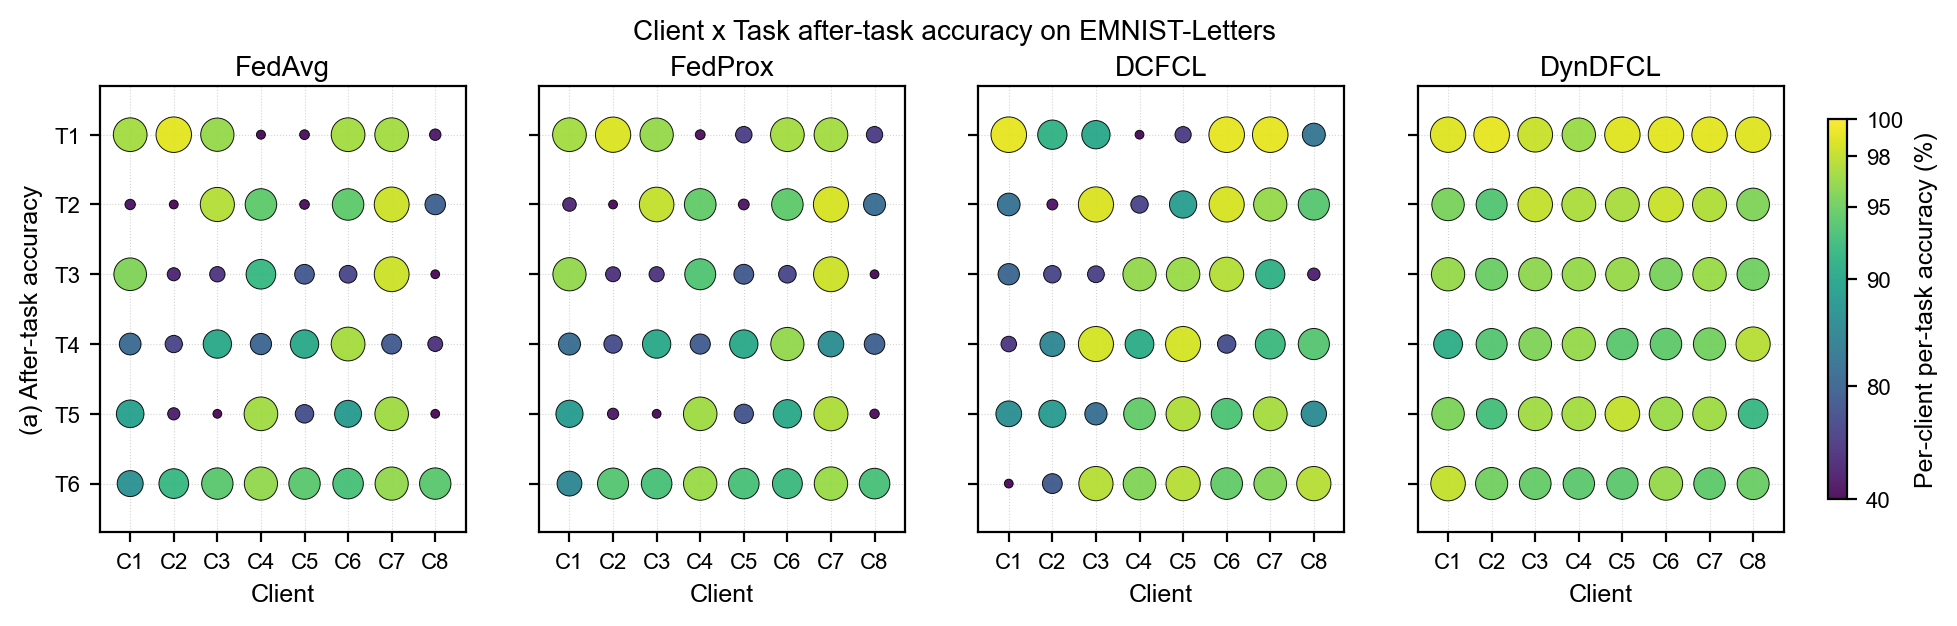
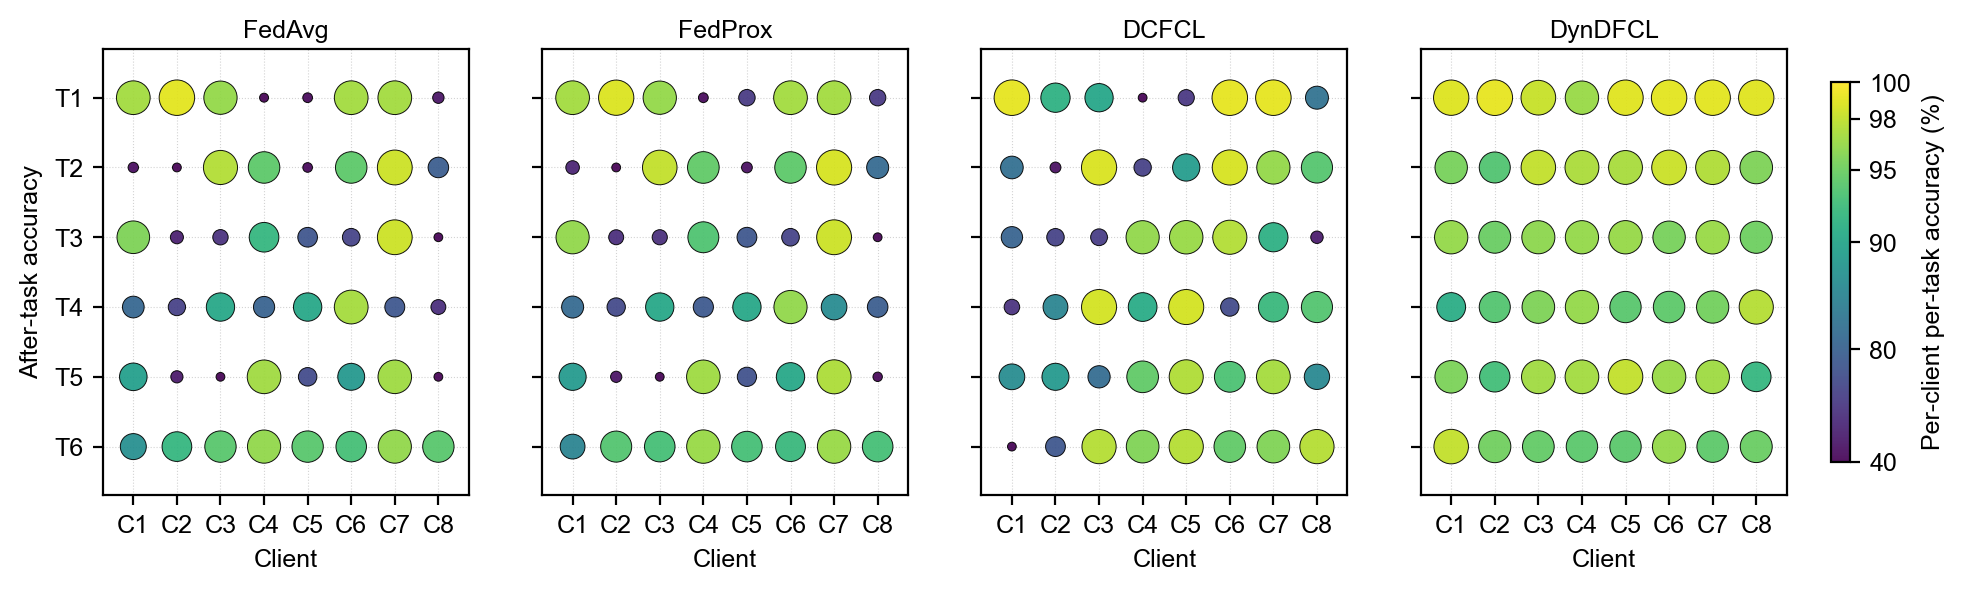
Fig 7 cleanup: drop (a) prefix and suptitle; unify fonts to 9pt
generate_extra_figures.py
- Drop "(a) " / "(b) " prefix from the After-task / End-of-stream
  panel labels (the (b) row was already removed earlier; the
  prefix was leftover)
- Remove fig.suptitle("Client x Task after-task accuracy on
  EMNIST-Letters"); the LaTeX caption already carries the
  equivalent description
- Unify in-figure font sizes for the bubble matrix to 9pt
  (FONT_TITLE 10 -> 9, FONT_TICK 8 -> 9, FONT_LEGEND 8 -> 9;
  FONT_BASE / FONT_AXIS_LABEL were already 9). The radar
  figure (plot_radar) uses its own local font overrides and is
  unaffected.

Regenerated artifacts
- paper/figures/client_task_bubble.{pdf,png}
- paper/figures/radar_metrics.pdf (incidental, identical layout)

diff --git a/paper/generate_extra_figures.py b/paper/generate_extra_figures.py
@@ -48,11 +48,14 @@ FIG_DIR.mkdir(parents=True, exist_ok=True)
 DATA_DIR.mkdir(parents=True, exist_ok=True)
 
 # Unified font sizes (kept in sync with plot_figures.py)
+# All-9pt across the bubble-matrix figure per user request (Fig 7 font
+# consistency); the radar figure uses its own local font overrides in
+# plot_radar() and is unaffected.
 FONT_BASE       = 9.0
-FONT_TITLE      = 10.0
+FONT_TITLE      = 9.0
 FONT_AXIS_LABEL = 9.0
-FONT_TICK       = 8.0
-FONT_LEGEND     = 8.0
+FONT_TICK       = 9.0
+FONT_LEGEND     = 9.0
 
 plt.rcParams.update({
     "font.family":      "sans-serif",
@@ -224,10 +227,8 @@ def plot_bubble_matrix(panels: list[tuple[str, str, np.ndarray]], out_pdf: Path)
     cbar.set_label("Per-client per-task accuracy (%)", fontsize=FONT_AXIS_LABEL)
     cbar.ax.tick_params(labelsize=FONT_TICK)
 
-    fig.suptitle(
-        "Client x Task after-task accuracy on EMNIST-Letters",
-        fontsize=FONT_TITLE, y=0.995,
-    )
+    # Suptitle removed by request; the LaTeX figure caption carries the
+    # equivalent description in main.tex.
     fig.savefig(out_pdf, bbox_inches="tight", dpi=300)
     fig.savefig(out_pdf.with_suffix(".png"), bbox_inches="tight", dpi=200)
     plt.close(fig)
@@ -368,8 +369,8 @@ def main() -> None:
             continue
         diag = _client_task_matrix(d, "per_client_diag_acc")
         final = _client_task_matrix(d, "per_client_final_acc")
-        diag_panels.append(("(a) After-task accuracy", label, diag))
-        final_panels.append(("(b) End-of-stream accuracy", label, final))
+        diag_panels.append(("After-task accuracy", label, diag))
+        final_panels.append(("End-of-stream accuracy", label, final))
         diag_data[label] = diag.tolist()
         final_data[label] = final.tolist()
     # Only the after-task ("diag") row is rendered now; the end-of-stream